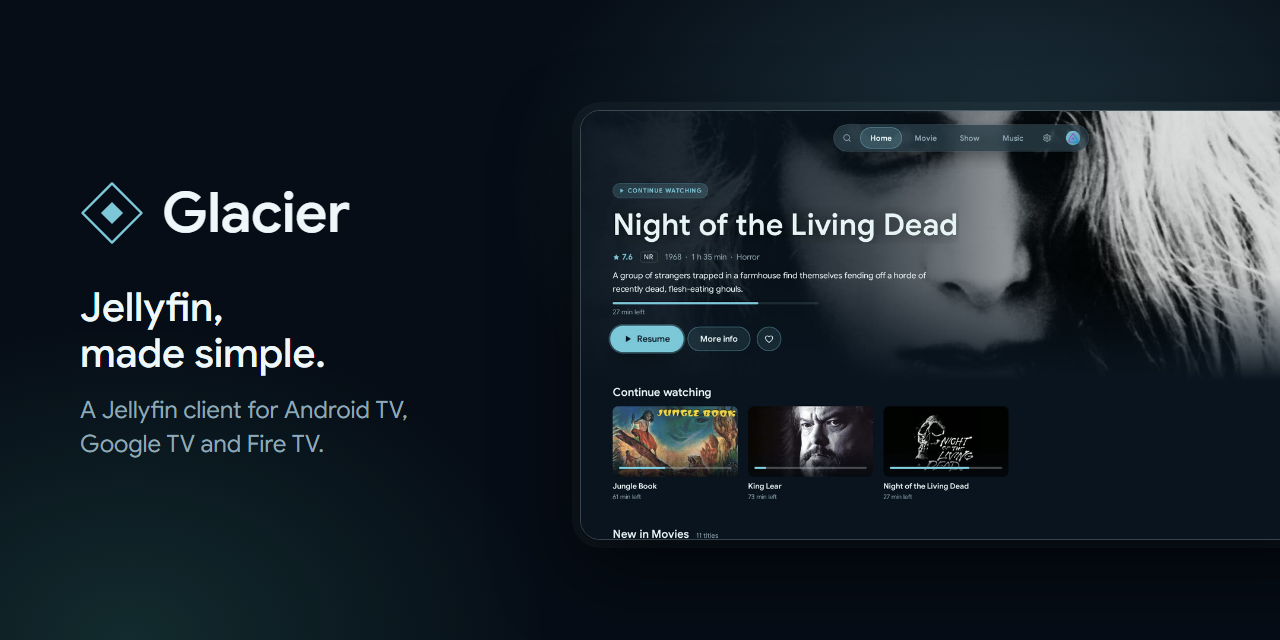
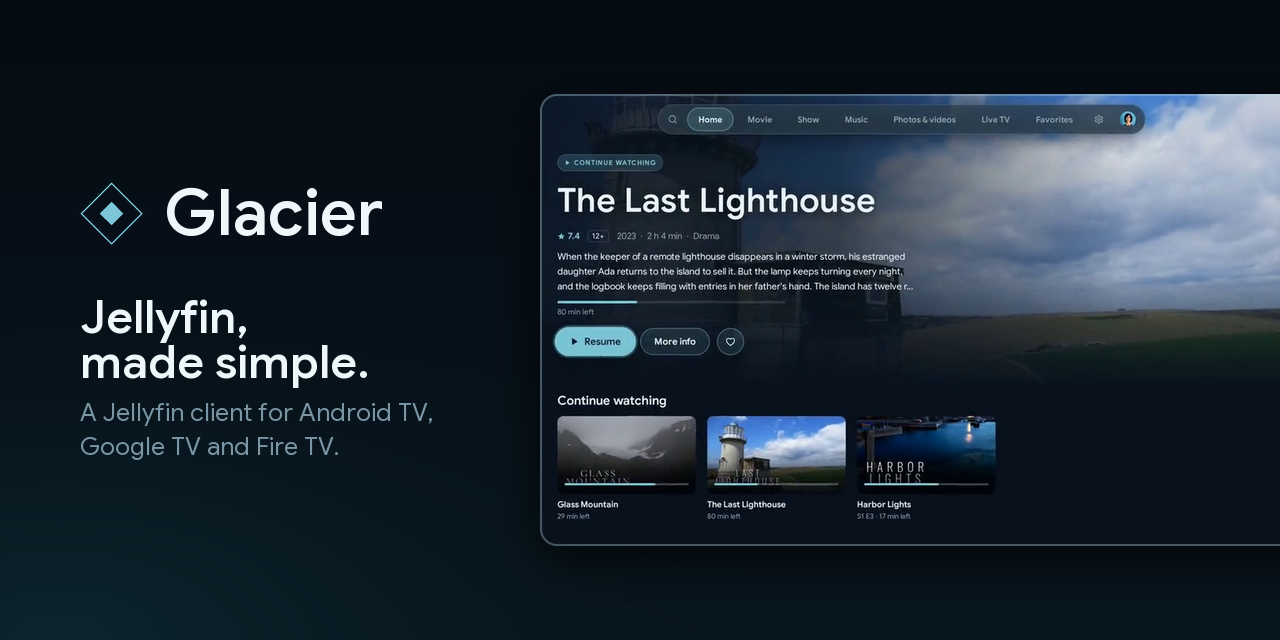
docs: renew the social preview with the current home screen
The old image still showed an earlier design. A new script renders the
1280x640 preview from a frame of the website's promo video, so it can be
made again after the next recording.

diff --git a/scripts/media/make-social-preview.py b/scripts/media/make-social-preview.py
@@ -1,0 +1,123 @@
+"""Writes the website's social preview (og:image and GitHub social preview, 1280x640) with
+the current home screen: a frame of the promo video, cropped to its UI card, next to the
+brand, headline and tagline.
+
+Usage: scripts/media/make-social-preview.py (needs ffmpeg and Pillow; writes
+website/assets/social-preview.png)
+"""
+import subprocess
+import tempfile
+from pathlib import Path
+
+from PIL import Image, ImageDraw, ImageFilter, ImageFont
+
+ROOT = Path(__file__).resolve().parents[2]
+VIDEO = ROOT / "website" / "assets" / "promo" / "glacier-promo.mp4"
+FONT = ROOT / "core" / "designsystem" / "src" / "main" / "res" / "font" / "google_sans.ttf"
+OUT = ROOT / "website" / "assets" / "social-preview.png"
+
+FRAME_AT = "5.5"  # seconds: the home screen, settled, no cross-fade
+# The UI card inside the 1280x720 frame, inset by a pixel to drop its anti-aliased edge.
+CARD_BOX = (129, 128, 1151, 701)
+CARD_RADIUS = 22  # corner radius in frame pixels
+W, H = 1280, 640
+ACCENT = (125, 199, 217)
+WHITE = (238, 248, 250)
+MUTED = (122, 150, 165)
+SS = 4  # supersampling for shapes
+
+
+def font(size, weight):
+    f = ImageFont.truetype(str(FONT), size)
+    f.set_variation_by_axes([weight])
+    return f
+
+
+def background():
+    top, bottom, glow = (6, 12, 20), (8, 22, 30), (14, 42, 51)
+    img = Image.new("RGB", (W, H))
+    px = img.load()
+    for y in range(H):
+        for x in range(W):
+            t = y / (H - 1)
+            base = [top[i] + (bottom[i] - top[i]) * t for i in range(3)]
+            # soft glow in the lower left corner
+            d = (((x - 60) / 700) ** 2 + ((y - 640) / 380) ** 2) ** 0.5
+            g = max(0.0, 1 - d) ** 2 * 0.8
+            px[x, y] = tuple(int(base[i] + (glow[i] - base[i]) * g) for i in range(3))
+    return img
+
+
+def grab_frame(dest):
+    subprocess.run(
+        ["ffmpeg", "-v", "error", "-y", "-ss", FRAME_AT, "-i", str(VIDEO), "-frames:v", "1", str(dest)],
+        check=True,
+    )
+    return Image.open(dest).convert("RGB")
+
+
+def rounded_mask(size, radius):
+    w, h = size
+    m = Image.new("L", (w * SS, h * SS), 0)
+    ImageDraw.Draw(m).rounded_rectangle((0, 0, w * SS - 1, h * SS - 1), radius * SS, fill=255)
+    return m.resize((w, h), Image.LANCZOS)
+
+
+def place_card(img, shot):
+    card_h = 452
+    scale = card_h / shot.height
+    card = shot.resize((round(shot.width * scale), card_h), Image.LANCZOS)
+    radius = round(CARD_RADIUS * scale)
+    x, y = 540, (H - card_h) // 2
+    mask = rounded_mask(card.size, radius)
+
+    shadow = Image.new("L", (W, H), 0)
+    shadow.paste(mask, (x, y + 14))
+    shadow = shadow.filter(ImageFilter.GaussianBlur(24)).point(lambda v: int(v * 0.75))
+    img.paste((0, 0, 0), (0, 0), shadow)
+
+    img.paste(card, (x, y), mask)
+    # thin light border, drawn supersampled
+    ring = Image.new("L", (card.width * SS, card.height * SS), 0)
+    d = ImageDraw.Draw(ring)
+    d.rounded_rectangle((0, 0, card.width * SS - 1, card.height * SS - 1), radius * SS, outline=255, width=SS * 2)
+    ring = ring.resize(card.size, Image.LANCZOS).point(lambda v: int(v * 0.35))
+    img.paste((190, 225, 235), (x, y), ring)
+
+
+def left_column(img):
+    big = Image.new("RGBA", (W * SS, H * SS), (0, 0, 0, 0))
+    d = ImageDraw.Draw(big)
+    # mark: outlined rhombus with a filled one inside (website/assets/mark.svg, 26 unit box)
+    u, ox, oy = 2.58 * SS, 78 * SS, 180 * SS
+    def pt(px, py):
+        return (ox + px * u, oy + py * u)
+    d.polygon([pt(13, 1), pt(25, 13), pt(13, 25), pt(1, 13)], outline=ACCENT + (255,), width=round(1.2 * SS))
+    d.polygon([pt(13, 8.5), pt(17.5, 13), pt(13, 17.5), pt(8.5, 13)], fill=ACCENT + (255,))
+    layer = big.resize((W, H), Image.LANCZOS)
+    img.paste(layer, (0, 0), layer)
+
+    draw = ImageDraw.Draw(img)
+    # wordmark, vertically centred on the mark (mark spans y 182..244)
+    draw.text((164, 213), "Glacier", font=font(64, 600), fill=WHITE, anchor="lm")
+    head = font(46, 600)
+    draw.text((80, 288), "Jellyfin,", font=head, fill=WHITE)
+    draw.text((80, 333), "made simple.", font=head, fill=WHITE)
+    sub = font(25, 400)
+    draw.text((80, 396), "A Jellyfin client for Android TV,", font=sub, fill=MUTED)
+    draw.text((80, 430), "Google TV and Fire TV.", font=sub, fill=MUTED)
+
+
+def main():
+    with tempfile.TemporaryDirectory() as tmp:
+        frame = grab_frame(Path(tmp) / "frame.png")
+    img = background()
+    place_card(img, frame.crop(CARD_BOX))
+    left_column(img)
+    OUT.parent.mkdir(parents=True, exist_ok=True)
+    img.save(OUT, optimize=True)
+    print(f"wrote {OUT} ({OUT.stat().st_size // 1024} KiB)")
+
+
+if __name__ == "__main__":
+    main()

diff --git a/scripts/README.md b/scripts/README.md
@@ -32,6 +32,7 @@ workflow, so both run as part of a release.
 | `make-promo-video.py` | Renders the promo video for the stores and the website from the recorded takes. | By hand |
 | `make-playback-samples.py` | Makes the sample files for the playback check and for the Dolby Vision and IEC 61937 tests. | By hand (needs ffmpeg and dovi_tool) |
 | `make-readme-badges.py` | Writes the README's wordmark and buttons as SVG files in `docs/badges/`, in light and dark. | By hand |
+| `make-social-preview.py` | Writes the website's social preview image (`website/assets/social-preview.png`) from a frame of the promo video. | By hand |
 
 ## website
 
